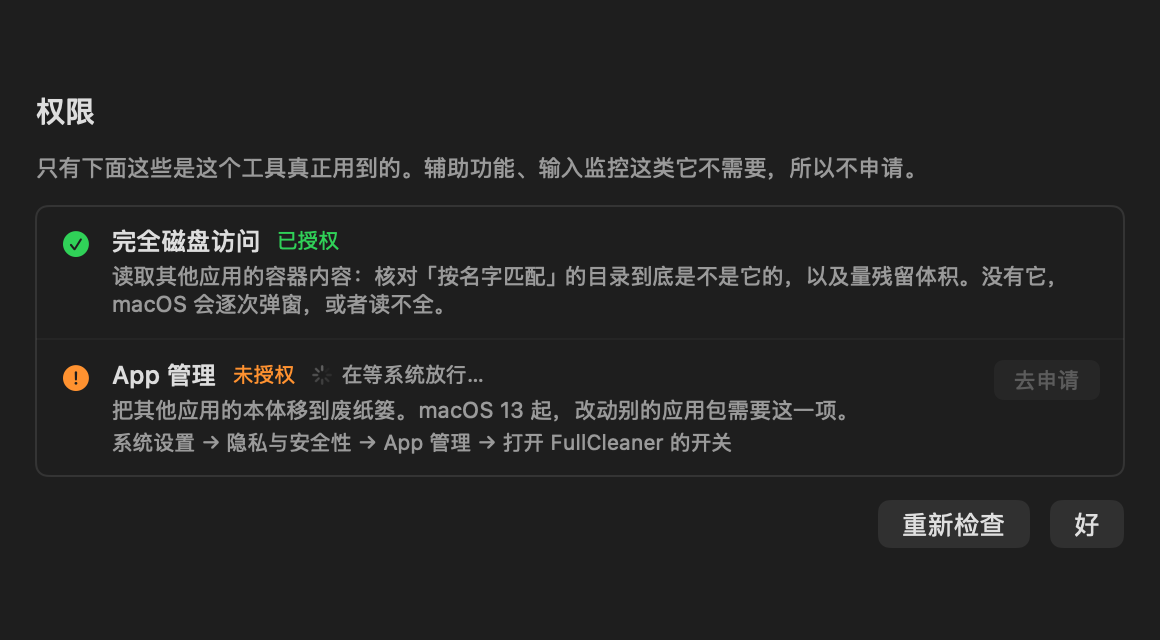
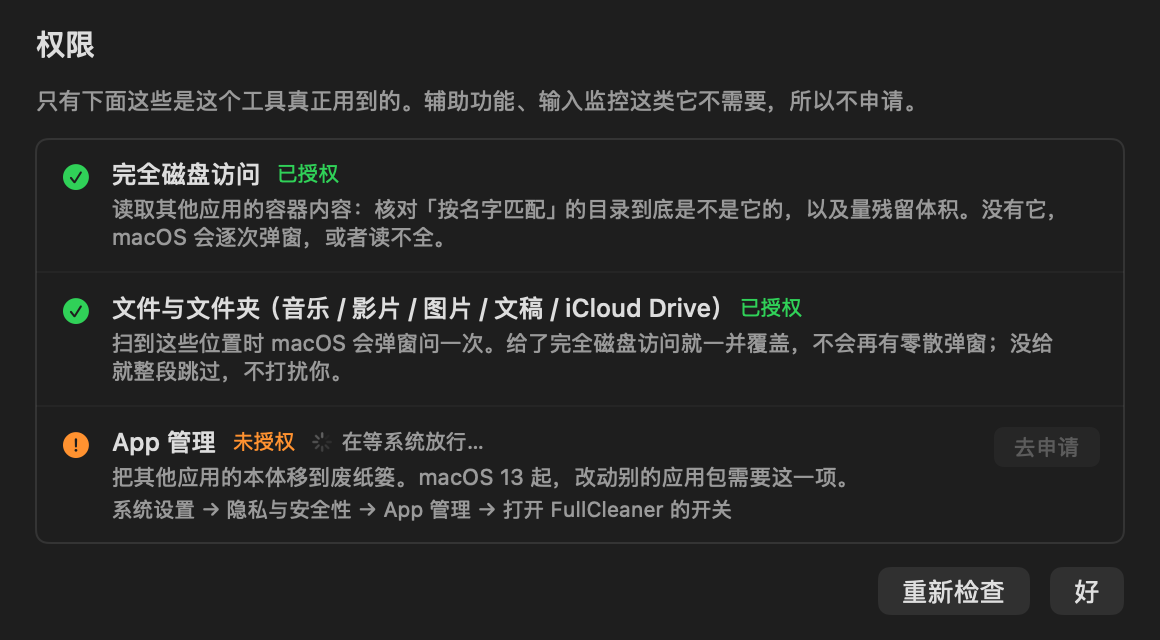
0.3.0: permissions panel on first launch, Full Disk Access gates container reads (no surprise prompts), Files & Folders row

diff --git a/src/Permissions.swift b/src/Permissions.swift
@@ -7,6 +7,7 @@ import AppKit
 
 enum Permission: String, CaseIterable, Identifiable {
     case fullDiskAccess
+    case filesAndFolders
     case appManagement
 
     var id: String { rawValue }
@@ -14,6 +15,7 @@ enum Permission: String, CaseIterable, Identifiable {
     var title: String {
         switch self {
         case .fullDiskAccess: return "完全磁盘访问"
+        case .filesAndFolders: return "文件与文件夹（音乐 / 影片 / 图片 / 文稿 / iCloud Drive）"
         case .appManagement: return "App 管理"
         }
     }
@@ -22,6 +24,8 @@ enum Permission: String, CaseIterable, Identifiable {
         switch self {
         case .fullDiskAccess:
             return "读取其他应用的容器内容：核对「按名字匹配」的目录到底是不是它的，以及量残留体积。没有它，macOS 会逐次弹窗，或者读不全。"
+        case .filesAndFolders:
+            return "扫到这些位置时 macOS 会弹窗问一次。给了完全磁盘访问就一并覆盖，不会再有零散弹窗；没给就整段跳过，不打扰你。"
         case .appManagement:
             return "把其他应用的本体移到废纸篓。macOS 13 起，改动别的应用包需要这一项。"
         }
@@ -30,14 +34,15 @@ enum Permission: String, CaseIterable, Identifiable {
     /// 系统设置里对应的面板。
     var settingsURL: String {
         switch self {
-        case .fullDiskAccess: return "x-apple.systempreferences:com.apple.preference.security?Privacy_AllFiles"
+        case .fullDiskAccess, .filesAndFolders: return "x-apple.systempreferences:com.apple.preference.security?Privacy_AllFiles"
         case .appManagement: return "x-apple.systempreferences:com.apple.preference.security?Privacy_AppBundles"
         }
     }
 
     var settingsHint: String {
         switch self {
-        case .fullDiskAccess: return "系统设置 → 隐私与安全性 → 完全磁盘访问权限 → 打开 FullCleaner 的开关"
+        case .fullDiskAccess, .filesAndFolders:
+            return "系统设置 → 隐私与安全性 → 完全磁盘访问权限 → 打开 FullCleaner 的开关（这一项管住上面所有位置）"
         case .appManagement: return "系统设置 → 隐私与安全性 → App 管理 → 打开 FullCleaner 的开关"
         }
     }
@@ -72,6 +77,8 @@ enum Permissions {
         switch permission {
         case .fullDiskAccess:
             return canReadTCCDatabase() ? .granted : .missing
+        case .filesAndFolders:
+            return canReadTCCDatabase() ? .granted : .missing   // 完全磁盘访问覆盖它
         case .appManagement:
             // 权限数据库本身受完全磁盘访问保护；读不到就只能说不确定。
             guard canReadTCCDatabase() else { return .unknown }
@@ -88,6 +95,13 @@ enum Permissions {
     }
 
     static var allGranted: Bool { all().allSatisfy { $0.status == .granted } }
+
+    /// 扫描时用：没有完全磁盘访问就不去碰会触发系统弹窗的位置。
+    /// 自检里用 FULLCLEANER_FAKE_FDA=1 模拟"已授权"，好把两种分支都验到。
+    static var fullDiskAccessGranted: Bool {
+        if ProcessInfo.processInfo.environment["FULLCLEANER_FAKE_FDA"] == "1" { return true }
+        return canReadTCCDatabase()
+    }
 
     /// 还差哪几项（主界面上提示用）。
     static var missingTitles: [String] {

diff --git a/src/ResidueScanner.swift b/src/ResidueScanner.swift
@@ -19,10 +19,18 @@ enum ResidueScanner {
     static func residues(for app: AppItem, measure: Bool = true, stop: StopFlag? = nil) -> [Hit] {
         var hits: [Hit] = []
         let matcher = Matcher(app: app)
+        let canTouchProtected = Permissions.fullDiskAccessGranted
+
         func add(_ root: String, _ kind: ResidueKind, _ nameMatching: Bool,
                  stripSuffix: Bool = false, prefixName: Bool = false, label: String? = nil) {
             collect(&hits, root: root, kind: kind, matcher: matcher, stop: stop, measure: measure,
+                    canTouchProtected: canTouchProtected,
                     nameMatching: nameMatching, stripSuffix: stripSuffix, prefixName: prefixName, label: label)
+        }
+
+        // 没有完全磁盘访问时：iCloud Drive 一碰就弹窗，整段跳过（不打扰用户）
+        if canTouchProtected {
+            add(Paths.library + "/Mobile Documents", .iCloudContainer, true)
         }
 
         // 用户级
@@ -41,7 +49,6 @@ enum ResidueScanner {
         add(Paths.library + "/Logs/DiagnosticReports", .logs, true, prefixName: true, label: "崩溃日志")
         add(Paths.library + "/Autosave Information", .savedState, true)
         add(Paths.library + "/LaunchAgents", .launchAgent, false, stripSuffix: true)
-        add(Paths.library + "/Mobile Documents", .iCloudContainer, true)
 
         // 系统级（需要管理员）
         add(Paths.system("/Library/Application Support"), .systemLibrary, true)
@@ -65,7 +72,8 @@ enum ResidueScanner {
     // MARK: - 目录扫描
 
     private static func collect(_ hits: inout [Hit], root: String, kind: ResidueKind, matcher: Matcher,
-                                stop: StopFlag?, measure: Bool, nameMatching: Bool, stripSuffix: Bool = false,
+                                stop: StopFlag?, measure: Bool, canTouchProtected: Bool,
+                                nameMatching: Bool, stripSuffix: Bool = false,
                                 prefixName: Bool = false, label: String? = nil) {
         let manager = FileManager.default
         guard manager.fileExists(atPath: root) else { return }
@@ -81,8 +89,13 @@ enum ResidueScanner {
             var note = label.map { "\($0)：\(how.explain)" } ?? how.explain
             if kind == .groupContainer { note += " 这个目录由同开发者的多个应用共享，先确认里面没有别的应用在用。" }
             if kind == .iCloudContainer { note += " 删掉会同步到你登录同一 Apple ID 的其他设备。" }
+            let needsFDA = (kind == .container || kind == .groupContainer || kind == .iCloudContainer)
+            let canMeasure = measure && (!needsFDA || canTouchProtected)
+            if needsFDA && !canTouchProtected {
+                note += " 体积要完全磁盘访问才能量（现在没给，所以留空）。"
+            }
             hits.append(Hit(path: path, kind: kind, how: how,
-                            bytes: measure ? Sizer.bytes(of: path, stop: stop) : 0,
+                            bytes: canMeasure ? Sizer.bytes(of: path, stop: stop) : 0,
                             note: note, modified: Sizer.modified(of: path)))
         }
     }

diff --git a/src/SelfTest.swift b/src/SelfTest.swift
@@ -113,6 +113,7 @@ enum SelfTest {
         setenv("FULLCLEANER_NO_TCC", "1", 1)
         setenv("FULLCLEANER_SELFTEST", "1", 1)
         setenv("FULLCLEANER_PKG_LIST", "com.example.fake.pkg\ncom.other.pkg", 1)
+        setenv("FULLCLEANER_FAKE_FDA", "1", 1)     // 默认按"已授权"跑；未授权分支在 checkScope 里单独验
         Remover.trashHandler = { url in
             let trash = URL(fileURLWithPath: Paths.trash)
             try FileManager.default.createDirectory(at: trash, withIntermediateDirectories: true)
@@ -167,11 +168,12 @@ enum SelfTest {
 
     private static func checkPermissions() {
         section("权限")
-        check(Permission.allCases.count == 2, "只列两项真正用到的权限（完全磁盘访问 / App 管理）")
+        check(Permission.allCases.count == 3, "面板三项：完全磁盘访问、文件与文件夹（由前者覆盖）、App 管理")
         check(Permissions.all().allSatisfy { !$0.permission.purpose.isEmpty }, "每项都写了用途")
         check(Permissions.all().allSatisfy { $0.permission.settingsURL.hasPrefix("x-apple.systempreferences:") },
               "每项都能一键打开系统设置里对应的那一页")
         check(Permissions.status(.fullDiskAccess) == .missing, "样本环境读不到权限数据库 → 完全磁盘访问判为未授权")
+        check(Permissions.status(.filesAndFolders) == .missing, "文件与文件夹那一行跟着完全磁盘访问一起变化")
         check(Permissions.status(.appManagement) == .unknown, "完全磁盘访问没给时，App 管理标为「检测不了」而不是乱猜")
     }
 
@@ -253,6 +255,16 @@ enum SelfTest {
                                   bytes: 10, kind: .groupContainer, match: .appGroup)
         sharedItem.sharedWith = registry.claimants(of: "group.com.example.shared", excluding: sharedA)
         check(Planner.reject(sharedItem, app: sharedA)?.gate == "不误伤", "共用容器：闸门拦下")
+
+        // 没有完全磁盘访问时的策略：不去碰会弹窗的位置
+        unsetenv("FULLCLEANER_FAKE_FDA")
+        let noFDA = ResidueScanner.residues(for: fake, measure: true)
+        check(!noFDA.contains { $0.kind == .iCloudContainer }, "没给完全磁盘访问：iCloud Drive 整段不碰（不弹窗）")
+        check(noFDA.contains { $0.kind == .container }, "容器仍然列出来（能删，只是量不了体积）")
+        check(noFDA.first { $0.kind == .container }?.bytes == 0, "没给完全磁盘访问：容器体积留空，不进去走一遍")
+        setenv("FULLCLEANER_FAKE_FDA", "1", 1)
+        check(ResidueScanner.residues(for: fake, measure: true).contains { $0.kind == .iCloudContainer },
+              "给了完全磁盘访问：iCloud 照常扫")
     }
 
     // MARK: - 闸门

diff --git a/src/AppState.swift b/src/AppState.swift
@@ -54,6 +54,11 @@ final class AppState: ObservableObject {
         guard !started, !suppressAutoStart else { return }
         started = true
         refreshPermissions()
+        // 第一次打开先把权限面板摆出来：缺权限会直接影响扫描与卸载，讲清楚再干活
+        if UserDefaults.standard.bool(forKey: "permissionsPromptShown") == false {
+            UserDefaults.standard.set(true, forKey: "permissionsPromptShown")
+            if !Permissions.allGranted { sheet = .permissions }
+        }
         scan()
     }
 

diff --git a/src/RenderDemo.swift b/src/RenderDemo.swift
@@ -76,6 +76,7 @@ enum RenderDemo {
         let state = demoState()
         state.permissionRows = [
             PermissionRow(permission: .fullDiskAccess, status: .granted),
+            PermissionRow(permission: .filesAndFolders, status: .granted),
             PermissionRow(permission: .appManagement, status: .missing, checking: true),
         ]
         state.sheet = .permissions

diff --git a/README.md b/README.md
@@ -63,17 +63,20 @@ Deletion goes to the Trash by default; root-owned items (App Store app bundles, 
 
 ## Permissions
 
-FullCleaner asks for exactly two system permissions, each with its own button in the in-app **权限 / Permissions** panel (green check when granted, one-click request when not):
+The app opens a **Permissions** panel on first launch (and any time from the button in the header — a green dot means everything is granted). Each row shows its own state: a green check when granted, an orange marker plus a one-click **去申请 / Request** button when not. No permission is ever requested by surprise in the middle of a scan.
 
 | Permission | Why it is needed |
 | --- | --- |
-| **Full Disk Access** | Read inside other apps' containers — that is how a folder named after an app is verified to actually belong to it, and how leftover sizes are measured. Without it macOS prompts repeatedly or reads come back incomplete. |
+| **Full Disk Access** | Read inside other apps' containers — that is how a folder named after an app is verified to actually belong to it, and how leftover sizes are measured. |
+| **Files and Folders** (Music / Movies / Pictures / Documents / iCloud Drive) | Covered by Full Disk Access: with it, macOS stops asking; without it, FullCleaner skips those locations entirely instead of triggering a dialog. |
 | **App Management** | Move another app's bundle to the Trash. Since macOS 13, modifying a bundle you do not own requires it. |
 
 It does **not** ask for Accessibility or Input Monitoring: it never simulates keystrokes and never reads what you type.
 
+Without Full Disk Access the tool still works, it just knows less: iCloud Drive is not scanned, container sizes show as `—`, and container contents are left alone (that is where macOS would otherwise prompt).
+
 ```sh
-fullcleaner --permissions          # status of both, exit code 0 when both are granted
+fullcleaner --permissions          # status of all three rows, exit code 0 when the real grants are in place
 ```
 
 ![Permissions panel](docs/screenshot-permissions.png)
